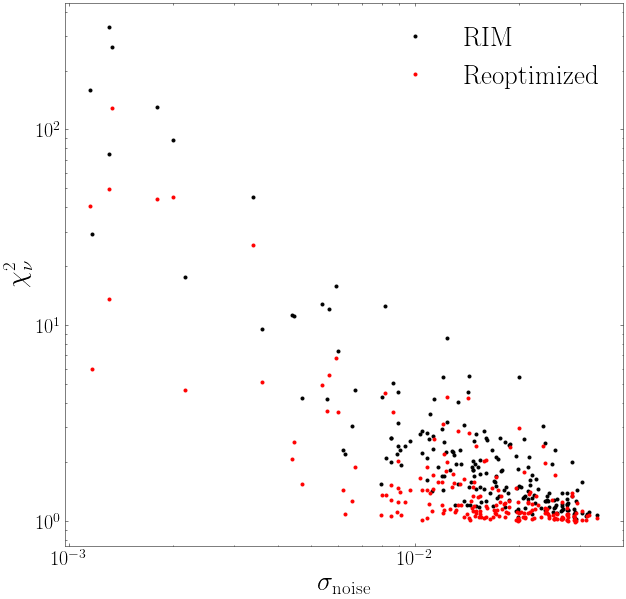
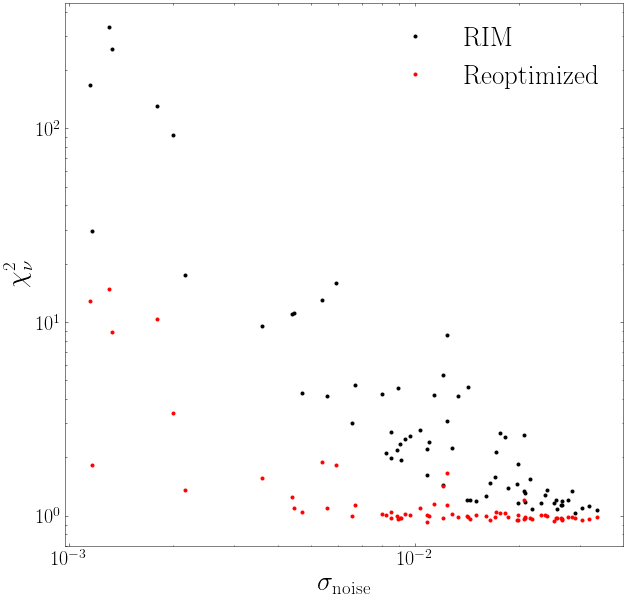
Added moving mean and variance to experiment 4 (likelihood + MSE) in order to see if adding noise to observation help remove noise leakage.
Former-commit-id: 34a9a2ea6d79bdcfb1ac92c90e90301aa9f8e153
Former-commit-id: 127ec7aeedd4b40b7504f7cb74527d0211c6a4b9 [formerly c199c67b8c1119107c4f28d2933ebd784eea5160]
Former-commit-id: c748c431e624fbf79cabe4e7b9bf504b2a00c55d

diff --git a/scripts/rim_results_v4_and_optim_posterior.py b/scripts/rim_results_v4_and_optim_posterior.py
@@ -1,6 +1,7 @@
 from censai import RIMSharedUnetv3, PhysicalModelv2, PowerSpectrum
 from censai.models import SharedUnetModelv4, VAE
 from censai.data.lenses_tng_v3 import decode_results, decode_physical_model_info
+from censai.definitions import LOG10
 import tensorflow as tf
 import numpy as np
 import os, glob, json
@@ -90,15 +91,20 @@ def distributed_strategy(args):
             g.create_dataset(name="lens_prior",                             shape=[data_len, phys.pixels, phys.pixels, 1],                                      dtype=np.float32)
             g.create_dataset(name="lens_pred",                              shape=[data_len, phys.pixels, phys.pixels, 1],                                      dtype=np.float32)
             g.create_dataset(name="lens_pred_reoptimized",                  shape=[data_len, phys.pixels, phys.pixels, 1],                                      dtype=np.float32)
-            g.create_dataset(name="source_prior",                           shape=[data_len, phys.src_pixels, phys.src_pixels, 1],                   dtype=np.float32)
+            g.create_dataset(name="lens_pred_reoptimized_mean",             shape=[data_len, phys.pixels, phys.pixels, 1],                                      dtype=np.float32)
+            g.create_dataset(name="source_prior",                           shape=[data_len, phys.src_pixels, phys.src_pixels, 1],                              dtype=np.float32)
             g.create_dataset(name="source_pred",                            shape=[data_len, rim.steps, phys.src_pixels, phys.src_pixels, 1],                   dtype=np.float32)
             g.create_dataset(name="source_pred_reoptimized",                shape=[data_len, phys.src_pixels, phys.src_pixels, 1],                              dtype=np.float32)
-            g.create_dataset(name="kappa_prior",                            shape=[data_len, phys.kappa_pixels, phys.kappa_pixels, 1],               dtype=np.float32)
+            g.create_dataset(name="source_pred_reoptimized_mean",           shape=[data_len, phys.src_pixels, phys.src_pixels, 1],                              dtype=np.float32)
+            g.create_dataset(name="source_pred_reoptimized_var",            shape=[data_len, phys.src_pixels, phys.src_pixels, 1],                              dtype=np.float32)
+            g.create_dataset(name="kappa_prior",                            shape=[data_len, phys.kappa_pixels, phys.kappa_pixels, 1],                          dtype=np.float32)
             g.create_dataset(name="kappa_pred",                             shape=[data_len, rim.steps, phys.kappa_pixels, phys.kappa_pixels, 1],               dtype=np.float32)
             g.create_dataset(name="kappa_pred_reoptimized",                 shape=[data_len, phys.kappa_pixels, phys.kappa_pixels, 1],                          dtype=np.float32)
+            g.create_dataset(name="kappa_pred_reoptimized_mean",            shape=[data_len, phys.kappa_pixels, phys.kappa_pixels, 1],                          dtype=np.float32)
+            g.create_dataset(name="kappa_pred_reoptimized_var",             shape=[data_len, phys.kappa_pixels, phys.kappa_pixels, 1],                          dtype=np.float32)
             g.create_dataset(name="chi_squared",                            shape=[data_len, rim.steps],                                                        dtype=np.float32)
-            g.create_dataset(name="chi_squared_reoptimized",                shape=[data_len, rim.steps],                                                                   dtype=np.float32)
-            g.create_dataset(name="chi_squared_reoptimized_series",         shape=[data_len, rim.steps, args.re_optimize_steps],                                           dtype=np.float32)
+            g.create_dataset(name="chi_squared_reoptimized",                shape=[data_len, rim.steps],                                                        dtype=np.float32)
+            g.create_dataset(name="chi_squared_reoptimized_series",         shape=[data_len, rim.steps, args.re_optimize_steps],                                dtype=np.float32)
             g.create_dataset(name="sampled_chi_squared_reoptimized_series", shape=[data_len, args.re_optimize_steps],                                           dtype=np.float32)
             g.create_dataset(name="source_optim_mse",                       shape=[data_len],                                                                   dtype=np.float32)
             g.create_dataset(name="source_optim_mse_series",                shape=[data_len, args.re_optimize_steps],                                           dtype=np.float32)
@@ -174,6 +180,13 @@ def distributed_strategy(args):
                 sampled_source_mse = tf.TensorArray(DTYPE, size=STEPS)
                 sampled_kappa_mse = tf.TensorArray(DTYPE, size=STEPS)
 
+                y_mean = lens_pred
+                y_var = tf.zeros_like(y_mean)
+                # prediction and uncertainty collected in model space
+                source_mean = source_pred[-1]
+                kappa_mean = rim.kappa_inverse_link(kappa_pred)[-1]
+                source_var = tf.zeros_like(source_mean)
+                kappa_var = tf.zeros_like(kappa_mean)
                 best = chi_squared
                 source_best = source_pred[-1]
                 kappa_best = kappa_pred[-1]
@@ -186,21 +199,20 @@ def distributed_strategy(args):
                         # s, k, chi_sq = rim.call(lens, noise_rms, psf, outer_tape=tape) # was using this in experiment 1 and 2 + only single sample for mse
                         cost = tf.reduce_mean(chi_sq)
                         # log prior
-                        s, k, chi_sq = rim.call(sampled_lens, noise_rms, tf.tile(psf, [args.sample_size, 1, 1, 1]), outer_tape=tape)
-                        _kappa_mse = tf.reduce_sum(wk(10**sampled_kappa) * (k - sampled_kappa) ** 2, axis=(2, 3, 4))
+                        s_s, s_k, s_chi_sq = rim.call(sampled_lens, noise_rms, tf.tile(psf, [args.sample_size, 1, 1, 1]), outer_tape=tape)
+                        _kappa_mse = tf.reduce_sum(wk(10**sampled_kappa) * (s_k - sampled_kappa) ** 2, axis=(2, 3, 4))
                         cost += tf.reduce_mean(_kappa_mse)
-                        cost += tf.reduce_mean((s - sampled_source)**2)
+                        cost += tf.reduce_mean((s_s - sampled_source)**2)
                         cost += tf.reduce_sum(rim.unet.losses)  # weight decay
 
                     grads = tape.gradient(cost, unet.trainable_variables)
                     optim.apply_gradients(zip(grads, unet.trainable_variables))
 
                     # Record performance on sampled dataset
-                    sampled_chi_squared_series = sampled_chi_squared_series.write(index=current_step, value=tf.squeeze(tf.reduce_mean(chi_sq[-1])))
-                    sampled_source_mse = sampled_source_mse.write(index=current_step, value=tf.reduce_mean((s[-1] - sampled_source) ** 2))
-                    sampled_kappa_mse = sampled_kappa_mse.write(index=current_step, value=tf.reduce_mean((k[-1] - sampled_kappa) ** 2))
+                    sampled_chi_squared_series = sampled_chi_squared_series.write(index=current_step, value=tf.squeeze(tf.reduce_mean(s_chi_sq[-1])))
+                    sampled_source_mse = sampled_source_mse.write(index=current_step, value=tf.reduce_mean((s_s[-1] - sampled_source) ** 2))
+                    sampled_kappa_mse = sampled_kappa_mse.write(index=current_step, value=tf.reduce_mean((s_k[-1] - sampled_kappa) ** 2))
                     # Record model prediction on data
-                    s, k, chi_sq = rim.call(lens, noise_rms, psf)
                     chi_squared_series = chi_squared_series.write(index=current_step, value=tf.squeeze(chi_sq))
                     source_o = s[-1]
                     kappa_o = k[-1]
@@ -220,15 +232,39 @@ def distributed_strategy(args):
                         source_mse_best = tf.reduce_mean((source_best - source) ** 2)
                         kappa_mse_best = tf.reduce_mean((kappa_best - log_10(kappa)) ** 2)
 
+                    # Welford's online algorithm for moving variance
+                    if current_step >= args.burn_in:
+                        step = current_step - args.burn_in
+                        # source
+                        delta = source_o - source_mean
+                        source_mean = (step * source_mean + source_o) / (step + 1)
+                        delta2 = source_o - source_mean
+                        source_var += delta * delta2
+                        # kappa
+                        delta = kappa_o - kappa_mean
+                        kappa_mean = (step * kappa_mean + kappa_o) / (step + 1)
+                        delta2 = kappa_o - kappa_mean
+                        kappa_var += delta * delta2
+                        # observation
+                        y_o = phys.forward(rim.source_link(source_o), rim.kappa_link(kappa_o), psf)
+                        delta = y_o - y_mean
+                        y_mean = (step * y_mean + y_o) / (step + 1)
+                        delta2 = y_o - y_mean
+                        y_var += delta * delta2
+
                 source_o = source_best
                 kappa_o = kappa_best
                 y_pred = phys.forward(source_o, kappa_o, psf)
+
                 chi_sq_series = tf.transpose(chi_squared_series.stack())
                 source_mse = source_mse.stack()
                 kappa_mse = kappa_mse.stack()
                 sampled_chi_squared_series = sampled_chi_squared_series.stack()
                 sampled_source_mse = sampled_source_mse.stack()
                 sampled_kappa_mse = sampled_kappa_mse.stack()
+                kappa_var /= float(STEPS - args.burn_in)
+                source_var /= float(STEPS - args.burn_in)
+                y_var /= float(STEPS - args.burn_in)
 
                 # Latent code of optimized model predictions
                 z_source_opt, _ = source_vae.encoder(tf.nn.relu(source_o))
@@ -236,11 +272,18 @@ def distributed_strategy(args):
 
                 # Compute Power spectrum of converged predictions
                 _ps_lens = ps_lens.cross_correlation_coefficient(lens[..., 0], lens_pred[..., 0])
-                _ps_lens3 = ps_lens.cross_correlation_coefficient(lens[..., 0], y_pred[..., 0])
+                _ps_lens2 = ps_lens.cross_correlation_coefficient(lens[..., 0], y_pred[..., 0])
+                _ps_lens3 = ps_lens.cross_correlation_coefficient(lens[..., 0], y_mean[..., 0])
                 _ps_kappa = ps_kappa.cross_correlation_coefficient(log_10(kappa)[..., 0], log_10(kappa_pred[-1])[..., 0])
                 _ps_kappa2 = ps_kappa.cross_correlation_coefficient(log_10(kappa)[..., 0], log_10(kappa_o[..., 0]))
+                _ps_kappa3 = ps_kappa.cross_correlation_coefficient(log_10(kappa)[..., 0], kappa_mean[..., 0])
                 _ps_source = ps_source.cross_correlation_coefficient(source[..., 0], source_pred[-1][..., 0])
-                _ps_source3 = ps_source.cross_correlation_coefficient(source[..., 0], source_o[..., 0])
+                _ps_source2 = ps_source.cross_correlation_coefficient(source[..., 0], source_o[..., 0])
+                _ps_source3 = ps_source.cross_correlation_coefficient(source[..., 0], source_mean[..., 0])
+
+                # Move mean and variance back to physical space. Assumes link function 10^x for kappa and identity for source.
+                kappa_mean = 10**kappa_mean
+                kappa_var = kappa_mean**2 * LOG10**2 * kappa_var
 
                 # save results
                 g["lens"][batch] = lens.numpy().astype(np.float32)
@@ -252,12 +295,18 @@ def distributed_strategy(args):
                 g["lens_prior"][batch] = sampled_lens[0].numpy().astype(np.float32)
                 g["lens_pred"][batch] = lens_pred.numpy().astype(np.float32)
                 g["lens_pred_reoptimized"][batch] = y_pred.numpy().astype(np.float32)
+                g["lens_pred_reoptimized_mean"][batch] = y_mean.numpy().astype(np.float32)
+                g["lens_pred_reoptimized_var"][batch] = y_var.numpy().astype(np.float32)
                 g["source_prior"][batch] = sampled_source[0].numpy().astype(np.float32)
                 g["source_pred"][batch] = tf.transpose(source_pred, perm=(1, 0, 2, 3, 4)).numpy().astype(np.float32)
                 g["source_pred_reoptimized"][batch] = source_o.numpy().astype(np.float32)
+                g["source_pred_reoptimized_mean"][batch] = source_mean.numpy().astype(np.float32)
+                g["source_pred_reoptimized_var"][batch] = source_var.numpy().astype(np.float32)
                 g["kappa_prior"][batch] = 10**sampled_kappa[0].numpy().astype(np.float32)
                 g["kappa_pred"][batch] = tf.transpose(kappa_pred, perm=(1, 0, 2, 3, 4)).numpy().astype(np.float32)
                 g["kappa_pred_reoptimized"][batch] = kappa_o.numpy().astype(np.float32)
+                g["kappa_pred_reoptimized_mean"][batch] = kappa_mean.numpy().astype(np.float32)
+                g["kappa_pred_reoptimized_var"][batch] = kappa_var.numpy().astype(np.float32)
                 g["chi_squared"][batch] = 2*tf.squeeze(chi_squared).numpy().astype(np.float32)
                 g["chi_squared_reoptimized"][batch] = 2*tf.squeeze(best).numpy().astype(np.float32)
                 g["chi_squared_reoptimized_series"][batch] = 2*chi_sq_series.numpy().astype(np.float32)
@@ -311,6 +360,7 @@ if __name__ == '__main__':
     parser.add_argument("--source_coherence_bins",  default=40,     type=int)
     parser.add_argument("--kappa_coherence_bins",   default=40,     type=int)
     parser.add_argument("--re_optimize_steps",  default=2000,       type=int)
+    parser.add_argument("--burn-in",            default=100,        type=int)
     parser.add_argument("--converged_chisq",    default=1.0,        type=float, help="Value of the chisq that is considered converged.")
     parser.add_argument("--source_vae_ball_size",   default=0.5,    type=float, help="Standard deviation of the source VAE latent space sampling around RIM prediction")
     parser.add_argument("--kappa_vae_ball_size",    default=0.5,    type=float, help="Standard deviation of the kappa VAE latent space sampling around RIM prediction")

diff --git a/scripts/rim_results_v4_and_sample.py b/scripts/rim_results_v4_and_sample.py
@@ -1,5 +1,6 @@
-from censai import RIMSharedUnetv3, PhysicalModelv2, PowerSpectrum, RIMSourceUnetv2, AnalyticalPhysicalModel
-from censai.models import SharedUnetModelv4, UnetModelv2
+from censai import RIMSharedUnetv3, PhysicalModelv2, PowerSpectrum
+import tensorflow_probability as tfp
+from censai.models import SharedUnetModelv4
 from censai.data.lenses_tng_v3 import decode_results, decode_physical_model_info
 import tensorflow as tf
 import numpy as np
@@ -15,6 +16,8 @@ N_WORKERS = int(os.getenv('SLURM_ARRAY_TASK_COUNT', 1))
 # this worker's array index. Assumes slurm array job is zero-indexed
 # defaults to zero if not running under SLURM
 THIS_WORKER = int(os.getenv('SLURM_ARRAY_TASK_ID', 0)) ## it starts from 1!!
+
+SLGD = tfp.optimizer.StochasticGradientLangevinDynamics
 
 
 def distributed_strategy(args):
@@ -177,9 +180,13 @@ def distributed_strategy(args):
                     step_size = learning_rate_schedule(current_step)
                     gradients = tape.gradient(cost, unet.trainable_variables)
                     grad_var = [args.rmsprop_alpha * var + (1 - args.rmsprop_alpha) * grad**2 for (grad, var) in zip(gradients, grad_var)]
-                    noise = [tf.random.normal(shape=theta.shape, stddev=tf.sqrt(step_size / (args.rmsprop_epsilon + tf.sqrt(var)))) for (theta, var) in zip(unet.trainable_variables, grad_var)]
-                    unet.set_weights([theta - step_size/2./(args.rmsprop_epsilon + tf.sqrt(var)) * grad + eta
-                                      for (theta, grad, eta, var) in zip(unet.trainable_variables, gradients, noise, grad_var)])
+                    if current_step >= args.slgd_burn_in:
+                        noise = [tf.random.normal(shape=theta.shape, stddev=tf.sqrt(step_size / (args.rmsprop_epsilon + tf.sqrt(var)))) for (theta, var) in zip(unet.trainable_variables, grad_var)]
+                        unet.set_weights([theta - step_size/2./(args.rmsprop_epsilon + tf.sqrt(var)) * grad + eta
+                                          for (theta, grad, eta, var) in zip(unet.trainable_variables, gradients, noise, grad_var)])
+                    else:
+                        unet.set_weights([theta - step_size/2./(args.rmsprop_epsilon + tf.sqrt(var)) * grad
+                                          for (theta, grad, var) in zip(unet.trainable_variables, gradients, grad_var)])
 
                 y_pred = phys.forward(rim.source_link(source_mean), rim.kappa_link(kappa_mean), psf)
                 chisq_ro = tf.reduce_mean((y_pred - lens)**2 / noise_rms[:, None, None, None] ** 2)
@@ -270,6 +277,7 @@ if __name__ == '__main__':
     parser.add_argument("--source_coherence_bins",  default=40,     type=int)
     parser.add_argument("--kappa_coherence_bins",   default=40,     type=int)
     parser.add_argument("--burn_in",            default=2000,       type=int)
+    parser.add_argument("--slgd_burn_in",       default=2000,       type=int, help="Burn in before injecting noise to the gradient to collect preconditionner statistics")
     parser.add_argument("--sampling_steps",     default=2000,       type=int)
     parser.add_argument("--l2_amp",             default=6e-5,       type=float)
     parser.add_argument("--rmsprop_alpha",      default=0.99,       type=float, help="Control the size of the exponential moving window of the preconditioner. Default from Li et al 2015.")
